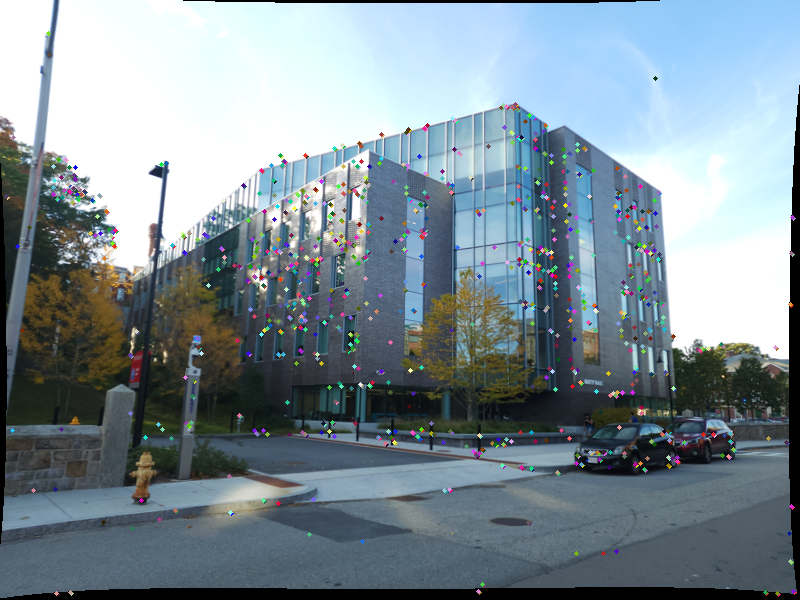
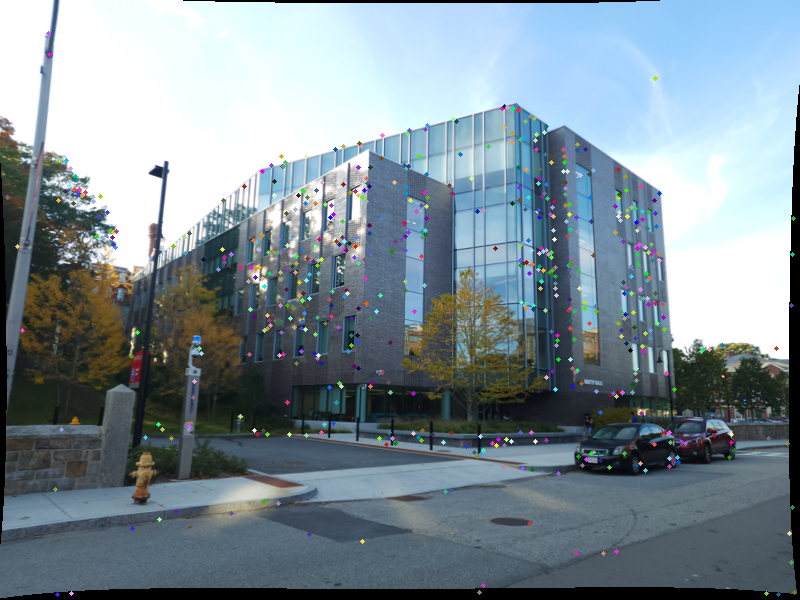
results

diff --git a/Phase1/main.py b/Phase1/main.py
@@ -70,7 +70,9 @@ def main():
 
             # Compute sift features from the images
             ptsA, ptsB = get_features(n, img_n, DATA_DIR)
-            plotMatches(dl, n, img_n, DATA_DIR, ptsA.T, ptsB.T, "Verification")
+            ptsA = pixels_1.T
+            ptsB = pixels_2.T
+            plotMatches(dl, n, img_n, DATA_DIR, ptsA.T, ptsB.T, "Features")
 
             # Compute fundamental matrix
             # F_aux = getFundamentalMatrix(ptsA, ptsB, num_point=8)
@@ -82,7 +84,7 @@ def main():
                 ptsA,
                 ptsB,
                 cv2.FM_RANSAC,
-                ransacReprojThreshold=1.6,
+                ransacReprojThreshold=0.1,
                 confidence=0.99,
                 maxIters=5000,
             )
@@ -90,6 +92,22 @@ def main():
             # Get Re-estimate Fundamental matrix using only inliers
             inliersA_og = ptsA[mask.ravel() == 1]
             inliersB_og = ptsB[mask.ravel() == 1]
+
+            inlier_indices = np.where(mask.ravel() == 1)[0]
+            inliers_index = inlier_indices.tolist()
+
+            aux_everything_inlier_outliers = np.ones((mask.shape[0], mask.shape[1]))
+            everything_indices = np.where(aux_everything_inlier_outliers.ravel() == 1)[
+                0
+            ]
+            inliers_outliers_index = everything_indices.tolist()
+
+            getMatchesNew(
+                dl, inliers_index, n, img_n, DATA_DIR, "Features_after_ransac"
+            )
+            getMatchesNew(
+                dl, inliers_outliers_index, n, img_n, DATA_DIR, "Features_before_ransac"
+            )
             # F_ree, _ = getFundamentalMatRANSAC(
             #    ptsA=inliersA_og,
             #    ptsB=inliersB_og,
@@ -97,8 +115,6 @@ def main():
             #    num_sample=8,
             #    confidence=0.99,
             # )
-            print(ptsA)
-            print(inliersA_og.shape)
 
             ## Normalize data
             inliersA_og = np.vstack(
